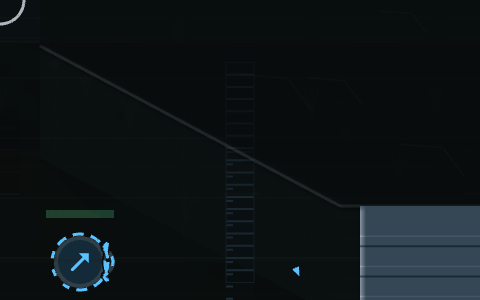
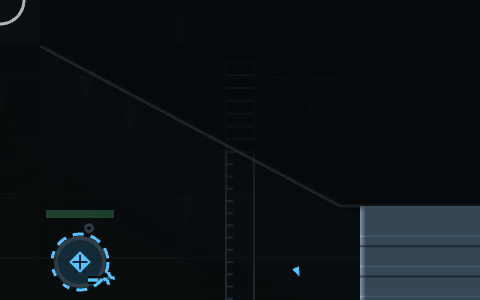
#3644: an open portcullis' gap is framed lit, its shots re-taken

diff --git a/apps/web/src/render/gate-mark.ts b/apps/web/src/render/gate-mark.ts
@@ -309,7 +309,7 @@ function hungAbove(wall: RenderableShape, lift: number): RenderableShape {
 }
 
 /**
- * Up: a dark opening, lit stone jambs at its ends and a lit sill, and
+ * Up: a dark opening in a lit stone frame, its jambs and sills, and
  * the grid hung above the lintel. In the gap only its bars' bottom ends
  * show, a stub on its north or west side (#3644), and none of the hung
  * grid falls back on it, so its footprint alone reads open, and where
@@ -321,10 +321,7 @@ const portcullisOpen: GateArt = (painter, wall, { height, line, palette }) => {
   painter.lineStyle(line * FRAME_WIDTH, GATE_PORTCULLIS_LOOK.iron, 1);
   across(painter, wall, bars(wall), STUB);
   painter.lineStyle(line * LIT_WIDTH, palette.wallLit, 1);
-  across(painter, wall, [0, 1]);
-  for (const { from, to } of southFacingEdges(wall)) {
-    painter.lineBetween(from.x, from.y, to.x, to.y);
-  }
+  painter.strokeShape(wall);
   if (height === 0) {
     return;
   }

diff --git a/apps/web/src/render/gate-mark.test.ts b/apps/web/src/render/gate-mark.test.ts
@@ -150,8 +150,9 @@ describe("portcullis and secret passage (#3068)", () => {
     const open = draw(GATE_ART.open.portcullis, DOOR, STONE);
     expect(open.fills).toEqual([{ shape: DOOR, colour: GATE_PORTCULLIS_LOOK.dark, alpha: 1 }]);
     expect(open.columns).toEqual([]);
-    // Its grid hung above, framed: the door's north end, as deep as the lift.
-    expect(open.strokes).toEqual([{ ...DOOR, height: 28 * 1.6 }]);
+    // The gap's lit frame, and its grid hung above: the door's north end,
+    // as deep as the lift.
+    expect(open.strokes).toEqual([DOOR, { ...DOOR, height: 28 * 1.6 }]);
   });
 
   it("has no shut art for a secret passage, which is drawn as its wall, and opens it dark", () => {

diff --git a/docs/art/visual-style.md b/docs/art/visual-style.md
@@ -452,10 +452,12 @@ draws the dark of the arch as a wall box, bars down its front face, and a
 grid over its top in `GATE_PORTCULLIS_LOOK` iron `#3b4759`; on its layer's
 ground the grid also fills the footprint, bars across it `BAR_EVERY` apart,
 an iron frame, a lit camera-facing edge (`litStructurePalette`) and
-`SPIKE`d tips. Up, `drawGate` lays the dark gap with jamb lines at its
-ends, a `STUB` of bars a quarter of its depth at its north or west side,
-and hangs the grid above the lintel; on a flat map that grid is left out,
-so nothing of it lands in the gap. The study SVG is made by
+`SPIKE`d tips. Up, `drawGate` lays the dark gap in a lit frame, its jambs
+and sills, a `STUB` of bars a quarter of its depth at its north
+or west side, and hangs the grid above the lintel: only the part of it
+that lands north of the footprint is drawn, so a strip deeper than the
+lift shows its top end and nothing of it lands in the gap. On a flat map
+the hung grid is left out. The study SVG is made by
 `scripts/assets/portcullis-svg.sh`.
 
 Every other SVG here is made by `scripts/assets/visual-style.mjs`; regenerate with
